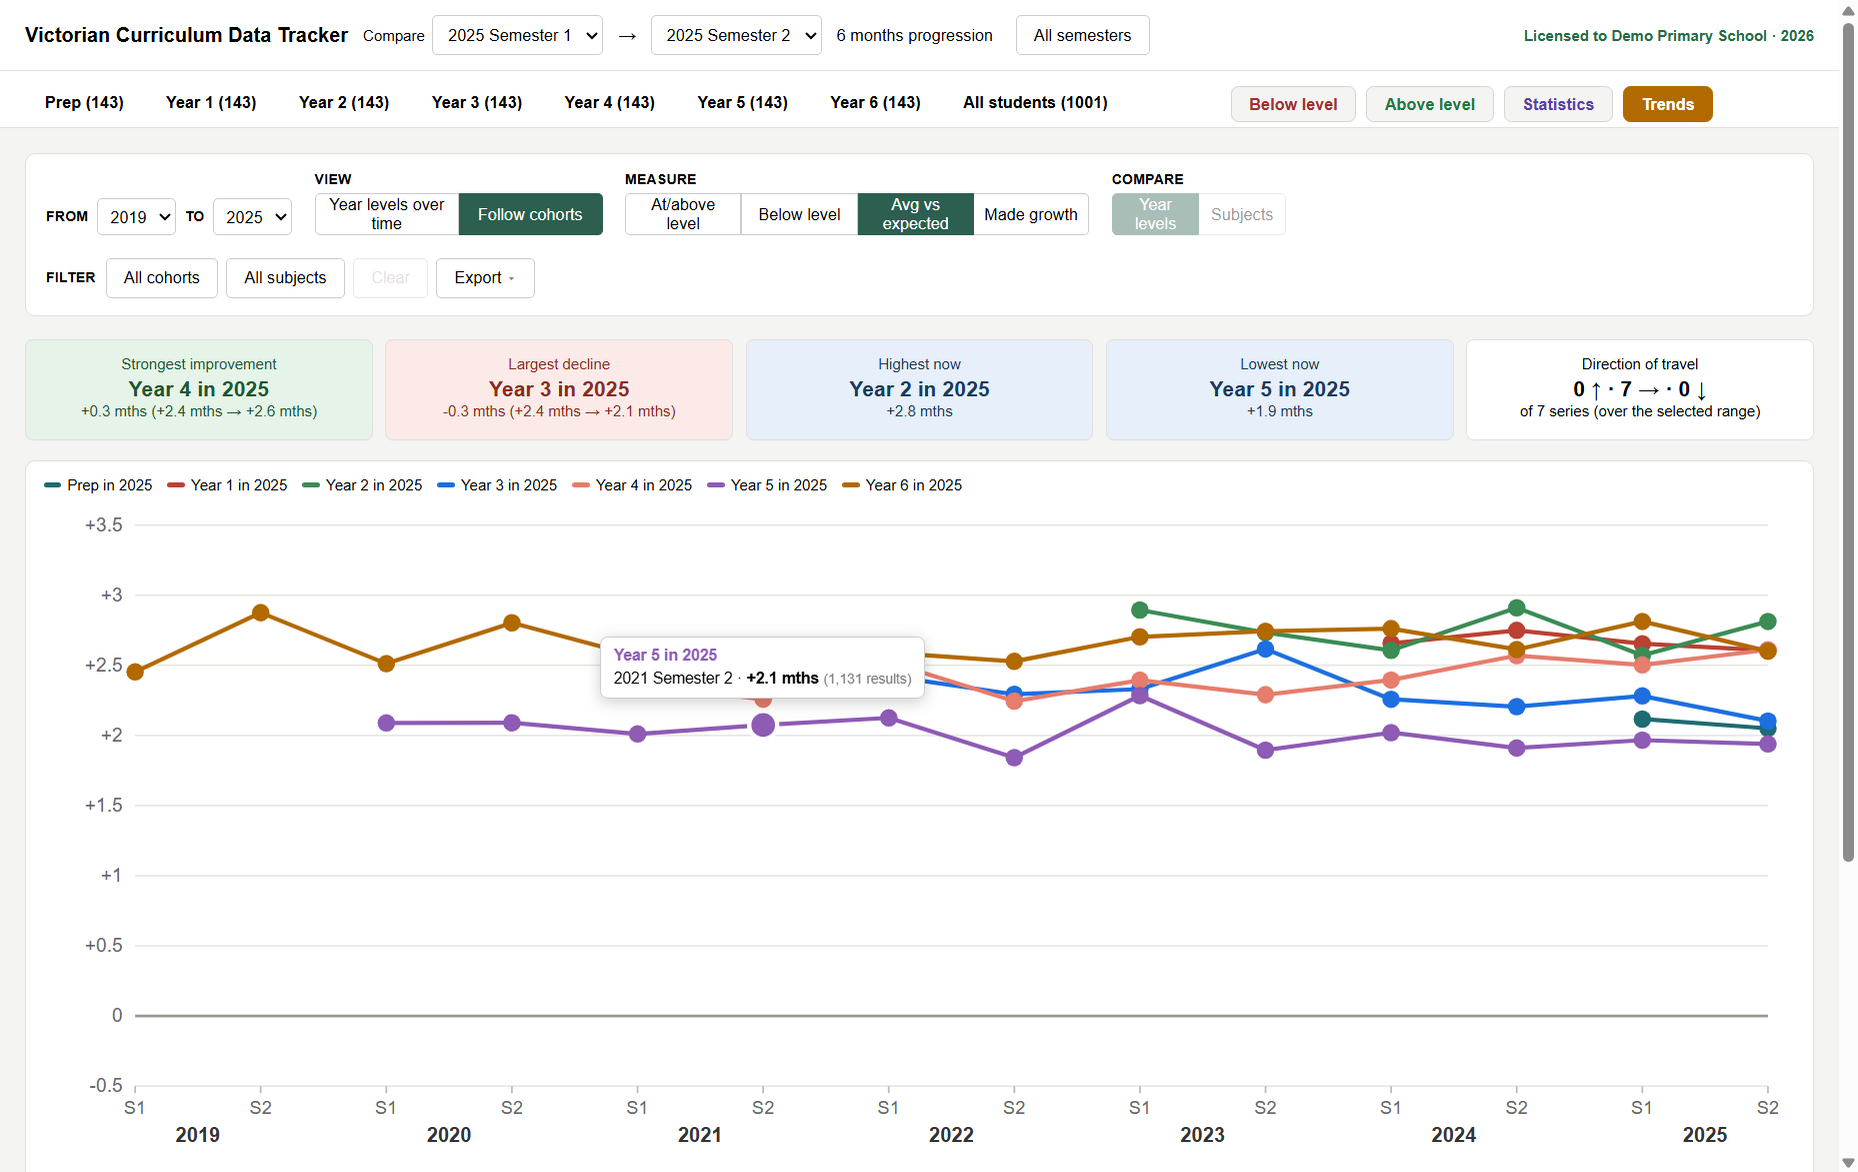
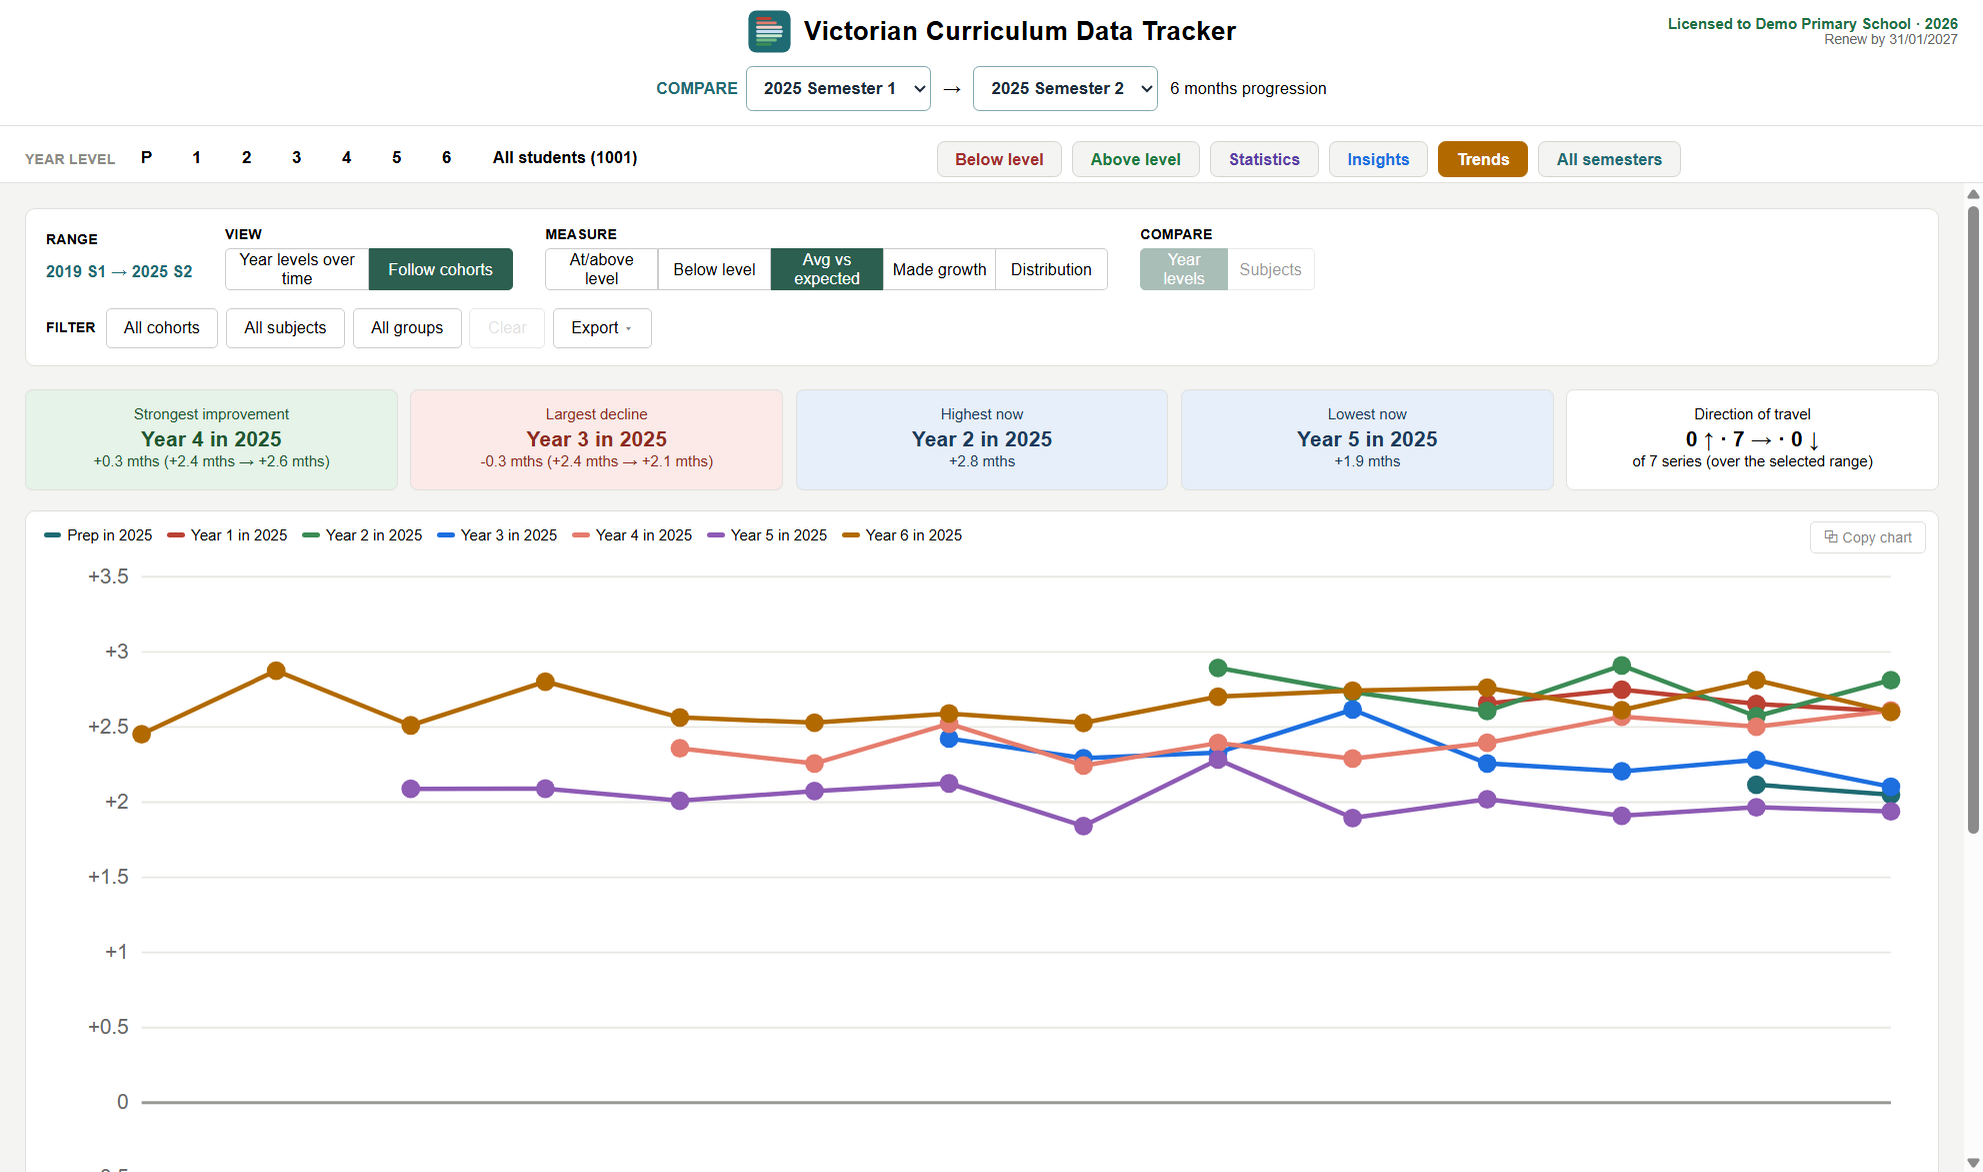
Add files via upload

diff --git a/index.html b/index.html
@@ -4,7 +4,7 @@
 <meta charset="UTF-8">
 <meta name="viewport" content="width=device-width, initial-scale=1.0">
 <title>Victorian Curriculum Data Tracker — Every student's growth at a glance</title>
-<meta name="description" content="Victorian Curriculum tracking for schools. Import Compass exports, see colour-coded growth, spot trends over 7 years. 100% offline — data never leaves your school.">
+<meta name="description" content="Victorian Curriculum tracking for schools. Import semester results from Compass or any reporting system, see colour-coded growth, spot trends across years of history. 100% offline — data never leaves your school.">
 <link rel="preconnect" href="https://fonts.googleapis.com">
 <link rel="preconnect" href="https://fonts.gstatic.com" crossorigin>
 <link href="https://fonts.googleapis.com/css2?family=Zilla+Slab:wght@500;600;700&family=Source+Sans+3:ital,wght@0,400;0,600;0,700;1,400&family=IBM+Plex+Mono:wght@400;500&display=swap" rel="stylesheet">
@@ -23,12 +23,13 @@
     </a>
     <nav class="site-nav" aria-label="Main">
       <a href="#features">Features</a>
+      <a href="#tour">Tour</a>
       <a href="#how">How it works</a>
       <a href="#privacy">Privacy</a>
       <a href="#pricing">Pricing</a>
       <a href="#faq">FAQ</a>
     </nav>
-    <a class="btn btn-solid btn-small" href="#contact">Book a demonstration</a>
+    <a class="btn btn-solid btn-small" href="#contact">Get in touch</a>
   </div>
   <div class="band-strip" aria-hidden="true">
     <i class="s1"></i><i class="s2"></i><i class="s3"></i><i class="s4"></i><i class="s5"></i><i class="s6"></i><i class="s7"></i>
@@ -43,11 +44,11 @@
     <div class="hero-copy">
       <p class="eyebrow">For Victorian government schools · Prep–Year&nbsp;10</p>
       <h1>See every student's growth at a&nbsp;glance.</h1>
-      <p class="lead">VC Tracker turns the Compass semester export you already produce into colour-coded insight: who is below, at or above level, who has made expected growth, and how results are trending — across every subject, class and year level, over years of history.</p>
+      <p class="lead">VC Tracker turns the semester results export you already produce — from Compass or any reporting system — into colour-coded insight: who is below, at or above level, who has made expected growth, and how results are trending — across every subject, class and year level, over years of history.</p>
       <p class="lead-strong">100% offline. Student data never leaves the school.</p>
       <div class="cta-row">
-        <a class="btn btn-solid" href="#contact">Book a demonstration</a>
-        <a class="btn btn-ghost" href="#contact">Request a trial</a>
+        <a class="btn btn-solid" href="#contact">Get in touch</a>
+        <a class="btn btn-ghost" href="#pricing">See pricing</a>
       </div>
     </div>
 
@@ -64,7 +65,7 @@
   <div class="container">
     <div class="callout">
       <h2>Catch issues before reports go home</h2>
-      <p>Import teacher judgements as soon as they're entered in Compass and review them the way leadership needs to: filter by class, subject or student to spot anomalies — missing results, unexpected scores, students banded far above or below level — and correct them in Compass <strong>before</strong> reports are published to families. Quality-assure every semester report in minutes, not days.</p>
+      <p>Import teacher judgements as soon as they're entered and review them the way leadership needs to: filter by class, subject or student to spot anomalies — missing results, unexpected scores, students banded far above or below level — and correct them at the source <strong>before</strong> reports are published to families. Every re-import shows exactly what changed. Quality-assure every semester report in minutes, not days.</p>
     </div>
   </div>
 </section>
@@ -77,8 +78,8 @@
     <div class="feature-grid">
       <article class="feature">
         <span class="feature-mark mk-teal" aria-hidden="true"></span>
-        <h3>Compass-ready in one click</h3>
-        <p>Imports the standard Compass semester report export (CSV) directly — no re-typing, no spreadsheet surgery. Prep to Year 10, every Victorian Curriculum learning area, primary and secondary. Re-importing a semester safely replaces it.</p>
+        <h3>Any reporting system, one click</h3>
+        <p>Imports the standard Compass semester export (CSV) directly, or a simple fill-in template for schools on other systems — no re-typing, no spreadsheet surgery. Import one semester or a whole folder of years in one go. Prep to Year 10, every Victorian Curriculum learning area. Re-importing a semester safely replaces it and shows what changed.</p>
       </article>
       <article class="feature">
         <span class="feature-mark mk-green" aria-hidden="true"></span>
@@ -93,12 +94,12 @@
       <article class="feature">
         <span class="feature-mark mk-red" aria-hidden="true"></span>
         <h3>Trends &amp; insight for leadership</h3>
-        <p>Statistics dashboards by year level, subject or home group — plus multi-year Trends: follow cohorts over up to seven years, four measures, automatic insights flagging the strongest improvements and largest declines.</p>
+        <p>Statistics dashboards by year level, subject or home group — plus multi-year Trends that follow cohorts across years, and an Insights view: a growth-vs-achievement quadrant of every student and a band-movement matrix showing exactly who improved, held or declined.</p>
       </article>
       <article class="feature">
         <span class="feature-mark mk-lightgreen" aria-hidden="true"></span>
         <h3>Professional reports in seconds</h3>
-        <p>Branded, colour-coded PDF and Excel exports of any view — filtered exactly as on screen, colour key included, stamped with cohort year, semesters compared and filters applied. Copy any table straight into Word, Excel or email.</p>
+        <p>A dedicated Reports menu — leadership pack, batch student PDFs (one per student or one combined file), Students to Watch and Subject Gap reports — plus branded, colour-coded PDF and Excel exports of any view, stamped with your school name. Copy any table straight into Word, Excel or email.</p>
       </article>
       <article class="feature">
         <span class="feature-mark mk-pink" aria-hidden="true"></span>
@@ -109,26 +110,126 @@
   </div>
 </section>
 
-<!-- ============ SHOWCASE ============ -->
-<section class="section section-tint">
+<!-- ============ TOUR (click-through showcase) ============ -->
+<section id="tour" class="section section-tint">
   <div class="container">
-    <p class="eyebrow">Trends — the flagship view</p>
-    <h2 class="section-title">Seven years of history, one chart</h2>
-    <div class="showcase-grid">
-      <!-- Real screenshot of the Windows app (Trends view). -->
-      <figure class="shot" aria-label="Trends view following cohorts over seven years">
-        <img src="screenshots/trends.png" alt="VC Tracker Trends view: cohorts followed over seven years with automatic insight cards">
-        <figcaption>Automatic insights call out the strongest improvement, largest decline, and direction of travel — with sample sizes on hover.</figcaption>
-      </figure>
-      <div class="showcase-copy">
-        <ul class="tick-list">
-          <li>Two lenses: <strong>Year levels over time</strong> and <strong>Follow cohorts</strong> (apparent-cohort method)</li>
-          <li>Four measures: % at/above, % below, average vs expected in months, % made growth</li>
-          <li>Compare year levels or subjects side by side</li>
-          <li>Interactive chart with instant hover details, plus a sortable table underneath</li>
-        </ul>
-        <p class="note">Whole-school views included: year-level tabs, Below/Above level watchlists, an "All semesters" side-by-side view, Excel-style searchable filters, multi-level sort and drag-select copy.</p>
+    <p class="eyebrow">Take the tour</p>
+    <h2 class="section-title">Click through the views leadership uses every week</h2>
+
+    <div class="tour-tabs" role="tablist" aria-label="Feature tour">
+      <button type="button" class="tour-tab active" data-slide="0">Trends</button>
+      <button type="button" class="tour-tab" data-slide="1">Insights</button>
+      <button type="button" class="tour-tab" data-slide="2">Statistics</button>
+      <button type="button" class="tour-tab" data-slide="3">Student profiles</button>
+      <button type="button" class="tour-tab" data-slide="4">All semesters</button>
+      <button type="button" class="tour-tab" data-slide="5">Watchlists</button>
+    </div>
+
+    <!-- All slides use REAL screenshots of the Windows app (sample data only). -->
+    <div class="tour-slides">
+
+      <div class="tour-slide showcase-grid active">
+        <figure class="shot" aria-label="Trends view following cohorts over years of history">
+          <img src="screenshots/trends.png" alt="VC Tracker Trends view: cohorts followed over years of history with automatic insight cards" loading="lazy">
+          <figcaption>Automatic insights call out the strongest improvement, largest decline, and direction of travel.</figcaption>
+        </figure>
+        <div class="showcase-copy">
+          <h3 class="tour-heading">Years of history, one chart</h3>
+          <ul class="tick-list">
+            <li>Two lenses: <strong>Year levels over time</strong> and <strong>Follow cohorts</strong> (apparent-cohort method)</li>
+            <li>Four measures: % at/above, % below, average vs expected in months, % made growth — plus a full band distribution view</li>
+            <li>Compare year levels or subjects side by side, or slice to a student group</li>
+            <li>Interactive chart with instant hover details, plus a sortable table underneath</li>
+          </ul>
+        </div>
       </div>
+
+      <div class="tour-slide showcase-grid">
+        <figure class="shot" aria-label="Insights view: growth-vs-achievement quadrant and band movement matrix">
+          <img src="screenshots/insights.png" alt="VC Tracker Insights view: every student plotted on a growth-vs-achievement quadrant" loading="lazy">
+          <figcaption>Every student on one chart — click any dot to open their profile.</figcaption>
+        </figure>
+        <div class="showcase-copy">
+          <h3 class="tour-heading">Who's excelling, coasting, catching up — or needs help now</h3>
+          <ul class="tick-list">
+            <li>Growth-vs-achievement quadrant: <strong>every student is one dot</strong>, placed by where they sit and how they're growing</li>
+            <li>Spots the group nobody notices: above level but <strong>stalled</strong></li>
+            <li>Band-movement matrix shows exactly who improved, held or declined between any two semesters — click a cell to see the names</li>
+            <li>Filter by year level, home group, subject or student group</li>
+          </ul>
+        </div>
+      </div>
+
+      <div class="tour-slide showcase-grid">
+        <figure class="shot" aria-label="Statistics dashboard with achievement and growth breakdowns">
+          <img src="screenshots/statistics.png" alt="VC Tracker Statistics dashboard: achievement and growth by year level, subject or home group" loading="lazy">
+          <figcaption>Whole-school numbers at a glance — bars and pies side by side.</figcaption>
+        </figure>
+        <div class="showcase-copy">
+          <h3 class="tour-heading">The whole school in numbers</h3>
+          <ul class="tick-list">
+            <li>Achievement and growth broken down by <strong>year level, subject or home group</strong></li>
+            <li>Colour-coded stacked bars and pie charts, with counts and percentages</li>
+            <li>Driven by the same semester picker as every other view — change it once, everything follows</li>
+            <li>Exports to branded PDF and Excel in one click</li>
+          </ul>
+        </div>
+      </div>
+
+      <div class="tour-slide showcase-grid">
+        <figure class="shot" aria-label="Student profile showing full colour-coded history">
+          <img src="screenshots/profile.png" alt="VC Tracker student profile: every subject and semester colour-coded with growth statistics" loading="lazy">
+          <figcaption>One student, whole story — every subject, every semester.</figcaption>
+        </figure>
+        <div class="showcase-copy">
+          <h3 class="tour-heading">Every student's story on one page</h3>
+          <ul class="tick-list">
+            <li>Full longitudinal history: every subject and semester, colour-coded</li>
+            <li>Growth vs expected for every result — the six-months-per-semester expectation scales automatically</li>
+            <li><strong>Ctrl+K</strong> jumps to any student from anywhere in the app</li>
+            <li>Export as a polished one-page PDF — or batch-export the whole school, one PDF per student, before parent–teacher interviews</li>
+          </ul>
+        </div>
+      </div>
+
+      <div class="tour-slide showcase-grid">
+        <figure class="shot" aria-label="All semesters view with results side by side and growth between any two points">
+          <img src="screenshots/all-semesters.png" alt="VC Tracker All semesters view: every semester side by side with a growth column" loading="lazy">
+          <figcaption>Every semester side by side — with growth between any two points.</figcaption>
+        </figure>
+        <div class="showcase-copy">
+          <h3 class="tour-heading">Side by side across the years</h3>
+          <ul class="tick-list">
+            <li>Tick any semesters and see them in one table, per student per subject</li>
+            <li>A growth column compares the oldest and newest selected — gap-scaled automatically</li>
+            <li>Include past students to keep the full picture as cohorts move on</li>
+            <li>Smooth with thousands of students — filter, sort, copy or export as usual</li>
+          </ul>
+        </div>
+      </div>
+
+      <div class="tour-slide showcase-grid">
+        <figure class="shot" aria-label="Below level watchlist with Excel-style filters">
+          <img src="screenshots/below-level.png" alt="VC Tracker Below level watchlist: instantly see who needs support, with Excel-style filters" loading="lazy">
+          <figcaption>Instant watchlists — who's below level, across the whole school.</figcaption>
+        </figure>
+        <div class="showcase-copy">
+          <h3 class="tour-heading">Watchlists, ready before the meeting</h3>
+          <ul class="tick-list">
+            <li>Below-level and above-level lists across the whole school, always current</li>
+            <li>Plus dedicated reports: <strong>Students to Watch</strong> (dropped bands, fell below, behind on growth) and <strong>Subject Gap</strong> (strong overall, struggling in one area)</li>
+            <li>Excel-style searchable filters, multi-level sort, drag-select copy</li>
+            <li>Every list exports to branded PDF or Excel, stamped with your school name</li>
+          </ul>
+        </div>
+      </div>
+
+    </div>
+
+    <div class="tour-nav">
+      <button type="button" class="btn btn-ghost btn-small tour-prev" aria-label="Previous view">‹ Previous</button>
+      <span class="tour-count" aria-hidden="true">1 / 6</span>
+      <button type="button" class="btn btn-ghost btn-small tour-next" aria-label="Next view">Next ›</button>
     </div>
   </div>
 </section>
@@ -137,22 +238,22 @@
 <section id="how" class="section">
   <div class="container">
     <p class="eyebrow">How it works</p>
-    <h2 class="section-title">From Compass export to insight in one click</h2>
+    <h2 class="section-title">From results export to insight in one click</h2>
     <ol class="steps">
       <li>
         <span class="step-num">1</span>
-        <h3>Export from Compass</h3>
-        <p>The semester report export you already run — nothing new to set up.</p>
+        <h3>Export your results</h3>
+        <p>The semester export you already run from Compass — or the simple fill-in CSV template for other systems.</p>
       </li>
       <li>
         <span class="step-num">2</span>
         <h3>Import &amp; review</h3>
-        <p>One click in. Check the data and catch anomalies before reports go live.</p>
+        <p>One click in — a single semester or a whole folder of years at once. Catch anomalies before reports go live.</p>
       </li>
       <li>
         <span class="step-num">3</span>
         <h3>Track, trend &amp; report</h3>
-        <p>Growth, student profiles, statistics, seven-year trends and branded exports.</p>
+        <p>Growth, student profiles, statistics, insights, multi-year trends and branded reports.</p>
       </li>
     </ol>
   </div>
@@ -213,7 +314,7 @@
     </details>
     <details>
       <summary>What data does it need?</summary>
-      <p>The standard Compass semester report export (CSV). One click to import.</p>
+      <p>The standard Compass semester report export (CSV), or a simple fill-in CSV template for schools on other reporting systems. One click to import — single semesters or a whole folder at once.</p>
     </details>
     <details>
       <summary>Does it work for secondary schools?</summary>
@@ -233,7 +334,7 @@
     </details>
     <details>
       <summary>Can we try it first?</summary>
-      <p>Yes — a demonstration or a trial build with sample data is available on request.</p>
+      <p>Yes — the app installs with a built-in sample dataset, so you can explore every feature before licensing. Activating your licence clears the sample data automatically. Email <a href="mailto:[email redacted]">[email redacted]</a> for the installer.</p>
     </details>
     <details>
       <summary>Is this a DET product?</summary>
@@ -246,13 +347,10 @@
 <section id="contact" class="section contact">
   <div class="container container-narrow contact-inner">
     <h2 class="section-title">See it with your own school's data</h2>
-    <p>Book a demonstration, or request a trial build with sample data.</p>
+    <p>Questions, licensing or the installer — email us and we'll get back to you.</p>
     <div class="cta-row cta-center">
-      <!-- TODO: replace with your real email address -->
-      <a class="btn btn-solid" href="mailto:[email redacted]?subject=VC%20Tracker%20demonstration">Book a demonstration</a>
-      <a class="btn btn-ghost btn-ghost-light" href="mailto:[email redacted]?subject=VC%20Tracker%20trial%20request">Request a trial</a>
+      <a class="btn btn-solid" href="mailto:[email redacted]?subject=VC%20Tracker%20enquiry">Email [email redacted]</a>
     </div>
-    <p class="contact-details"><!-- TODO: name/business, email and phone -->[Your name] · [contact email] · [phone]</p>
   </div>
 </section>
 
@@ -269,6 +367,26 @@
     <p>Prices in AUD. ABN [placeholder]. © 2026 Victorian Curriculum Data Tracker.</p>
   </div>
 </footer>
+
+<script>
+// Feature tour: tabs + previous/next click-through. No dependencies; the first
+// slide is visible without JavaScript.
+(function () {
+  var tabs = Array.prototype.slice.call(document.querySelectorAll(".tour-tab"));
+  var slides = Array.prototype.slice.call(document.querySelectorAll(".tour-slide"));
+  var count = document.querySelector(".tour-count");
+  var current = 0;
+  function show(i) {
+    current = (i + slides.length) % slides.length;
+    tabs.forEach(function (t, j) { t.classList.toggle("active", j === current); });
+    slides.forEach(function (s, j) { s.classList.toggle("active", j === current); });
+    if (count) count.textContent = (current + 1) + " / " + slides.length;
+  }
+  tabs.forEach(function (t, i) { t.addEventListener("click", function () { show(i); }); });
+  document.querySelector(".tour-prev").addEventListener("click", function () { show(current - 1); });
+  document.querySelector(".tour-next").addEventListener("click", function () { show(current + 1); });
+})();
+</script>
 
 </body>
 </html>

diff --git a/style.css b/style.css
@@ -209,8 +209,29 @@ a:focus-visible, button:focus-visible, summary:focus-visible {
 .feature h3 { font-size: 1.18rem; margin-bottom: 8px; }
 .feature p { font-size: .97rem; color: var(--muted); }
 
-/* ---------- Showcase ---------- */
+/* ---------- Showcase / tour ---------- */
 .showcase-grid { display: grid; grid-template-columns: 1.2fr 1fr; gap: 44px; align-items: center; }
+
+/* Click-through feature tour: tab pills above, one slide visible at a time. */
+.tour-tabs { display: flex; flex-wrap: wrap; gap: 10px; margin-bottom: 30px; }
+.tour-tab {
+  font: 600 .92rem var(--font-body); cursor: pointer;
+  padding: 9px 18px; border-radius: 22px;
+  background: #fff; color: var(--ink);
+  border: 1px solid var(--line);
+  transition: background .15s, color .15s, border-color .15s;
+}
+.tour-tab:hover { border-color: var(--teal); color: var(--teal); }
+.tour-tab.active { background: var(--teal); border-color: var(--teal); color: #fff; }
+.tour-slide { display: none; }
+.tour-slide.active { display: grid; }
+.tour-heading { font-size: 1.35rem; margin-bottom: 16px; }
+.tour-nav {
+  display: flex; align-items: center; justify-content: center;
+  gap: 18px; margin-top: 30px;
+}
+.tour-nav .btn { font-family: var(--font-body); cursor: pointer; }
+.tour-count { font-family: var(--font-mono); font-size: .85rem; color: var(--muted); min-width: 44px; text-align: center; }
 .trend-mock svg { width: 100%; height: auto; display: block; background: #fff; }
 .axis { stroke: var(--line); stroke-width: 1.5; }
 .tick { font-family: var(--font-mono); font-size: 10px; fill: var(--muted); }

diff --git a/README.md b/README.md
@@ -20,23 +20,26 @@ what appears on the page.
 
 Every future commit to the repo republishes the site automatically.
 
-## Before launch — three TODOs
+## Before launch — one TODO
 
-Search `index.html` for `TODO`:
+Contact email is `[email redacted]` throughout (contact section + FAQ).
 
-1. Replace `[email redacted]` (appears twice) with your real contact email.
-2. Fill in the contact line: `[Your name] · [contact email] · [phone]`.
-3. Replace `ABN [placeholder]` in the footer.
+1. Replace `ABN [placeholder]` in the footer.
 
 ## Screenshots
 
-The hero and Trends sections use REAL screenshots of the Windows app, in the
-`screenshots/` folder:
+The hero and the click-through Tour section use REAL screenshots of the
+Windows app, in the `screenshots/` folder:
 
 - `screenshots/overview.png` — the colour-coded results view (hero)
-- `screenshots/trends.png` — the Trends view (showcase)
+- `screenshots/trends.png` — Trends (tour slide 1)
+- `screenshots/insights.png` — Insights quadrant (tour slide 2)
+- `screenshots/statistics.png` — Statistics dashboard (tour slide 3)
+- `screenshots/profile.png` — student profile (tour slide 4)
+- `screenshots/all-semesters.png` — All semesters view (tour slide 5)
+- `screenshots/below-level.png` — Below level watchlist (tour slide 6)
 
-To update them, replace those two PNG files (keep the same names). They're
+To update them, replace the PNG files (keep the same names). They're
 captured with the app licensed to a demo school and only fake student names, so
 they're safe to publish. Keep them under ~500 KB each for fast loading.
 